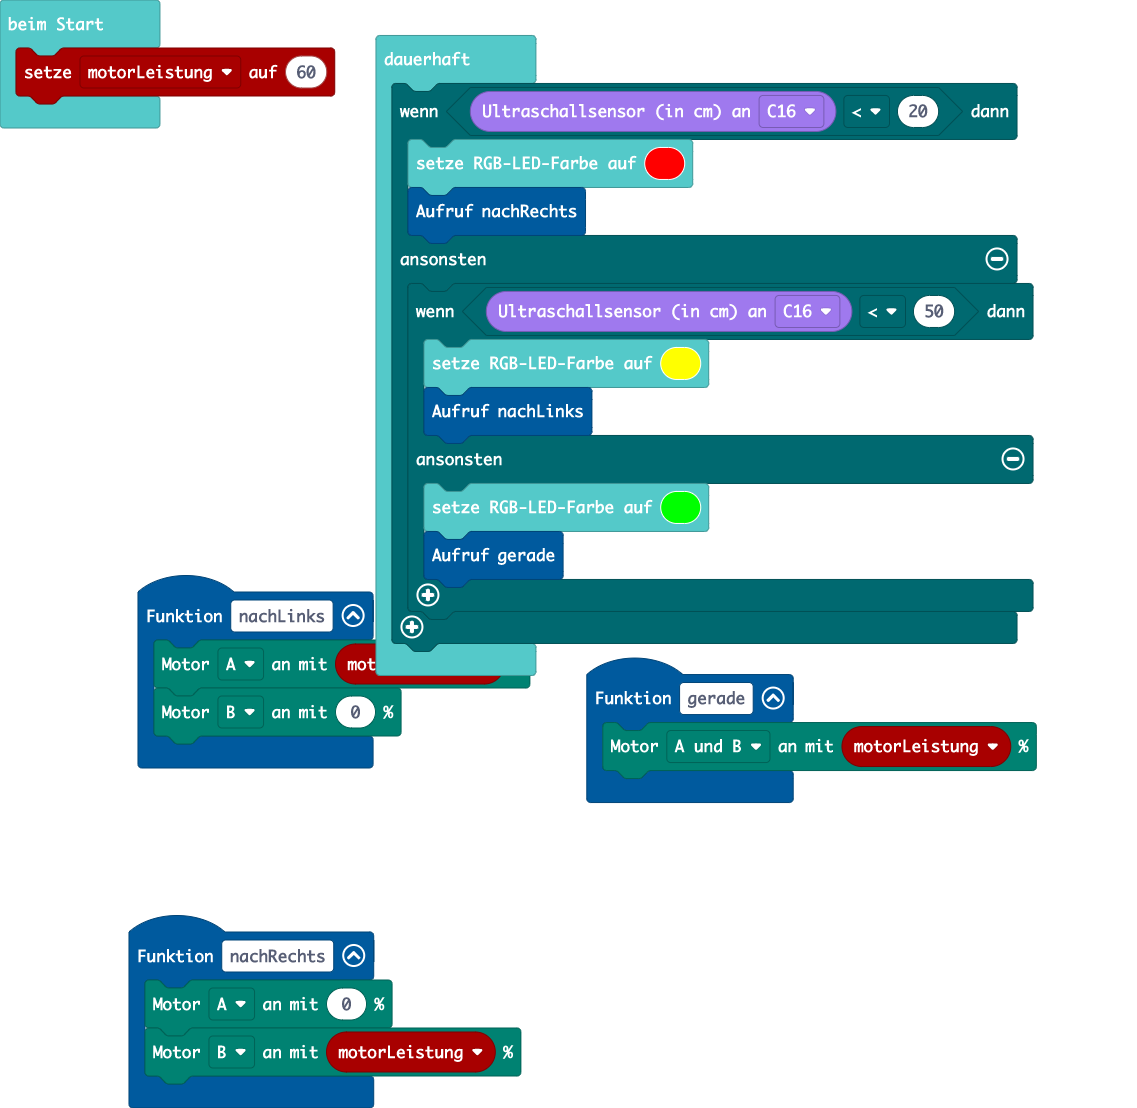
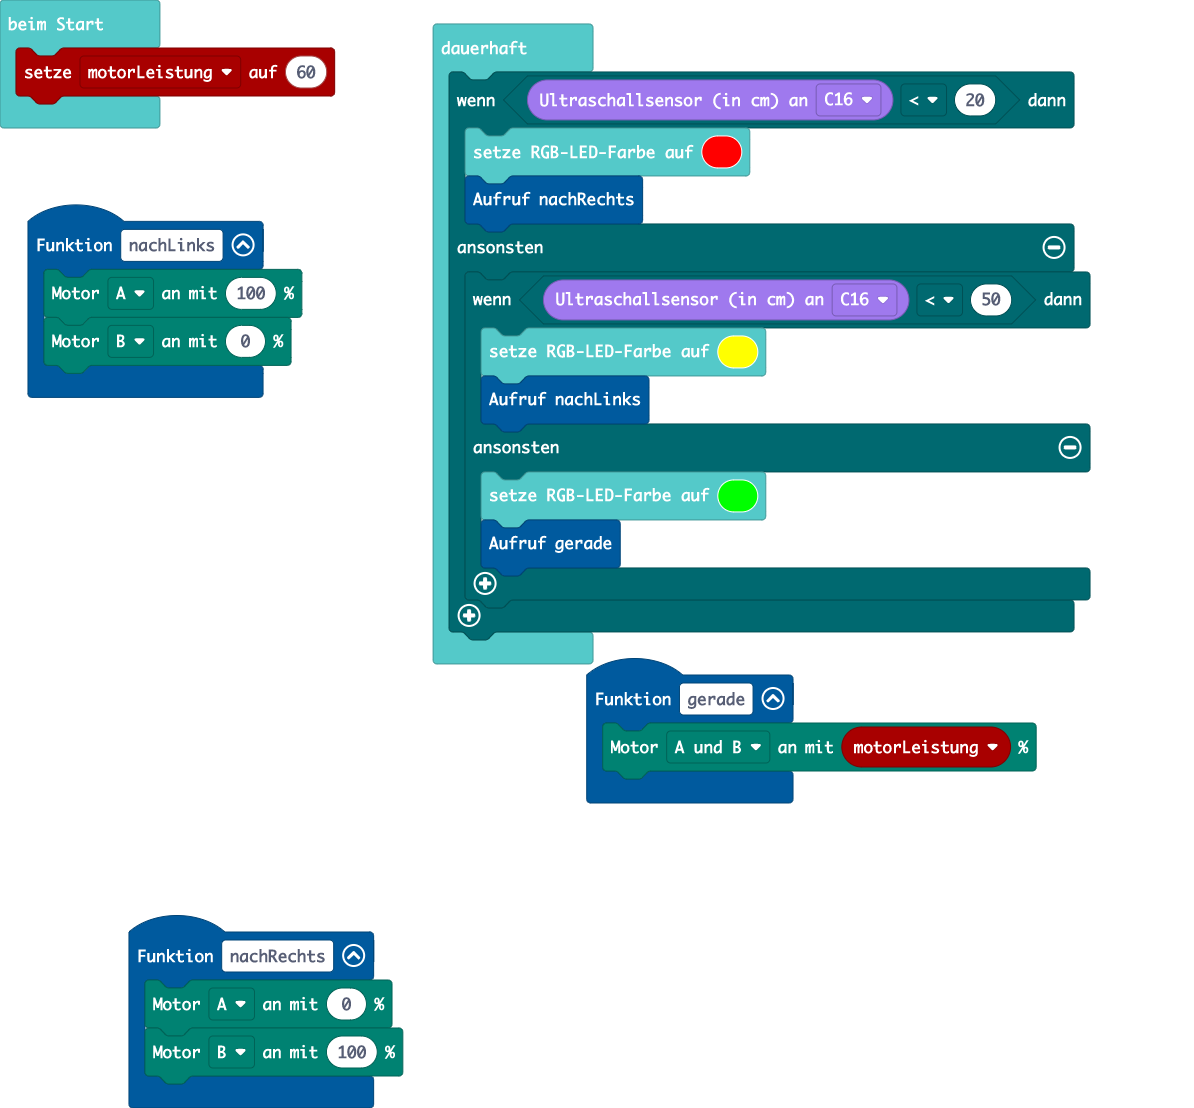
Aktualisiere main.blocks, main.ts

diff --git a/main.ts b/main.ts
@@ -2,12 +2,12 @@ function gerade () {
     motors.dualMotorPower(Motor.AB, motorLeistung)
 }
 function nachLinks () {
-    motors.dualMotorPower(Motor.A, motorLeistung)
+    motors.dualMotorPower(Motor.A, 100)
     motors.dualMotorPower(Motor.B, 0)
 }
 function nachRechts () {
     motors.dualMotorPower(Motor.A, 0)
-    motors.dualMotorPower(Motor.B, motorLeistung)
+    motors.dualMotorPower(Motor.B, 100)
 }
 let motorLeistung = 0
 motorLeistung = 60
